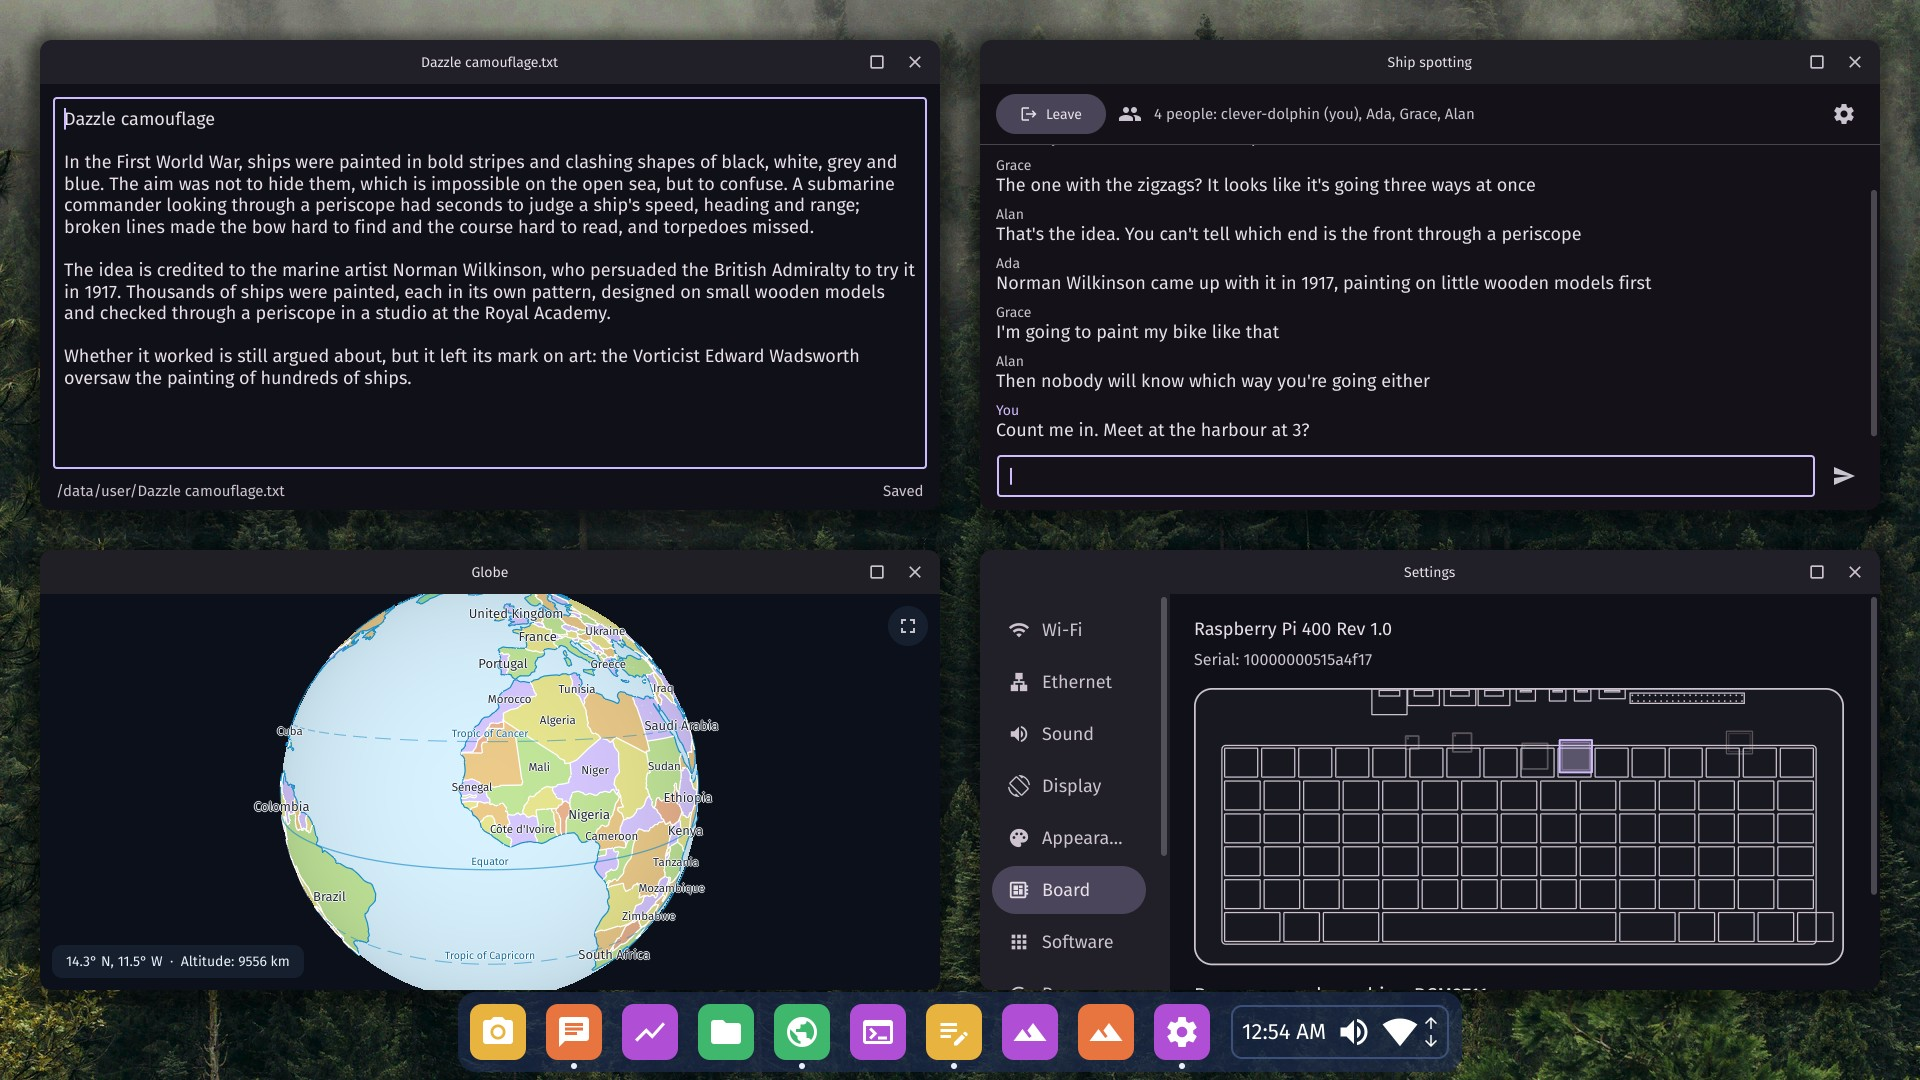
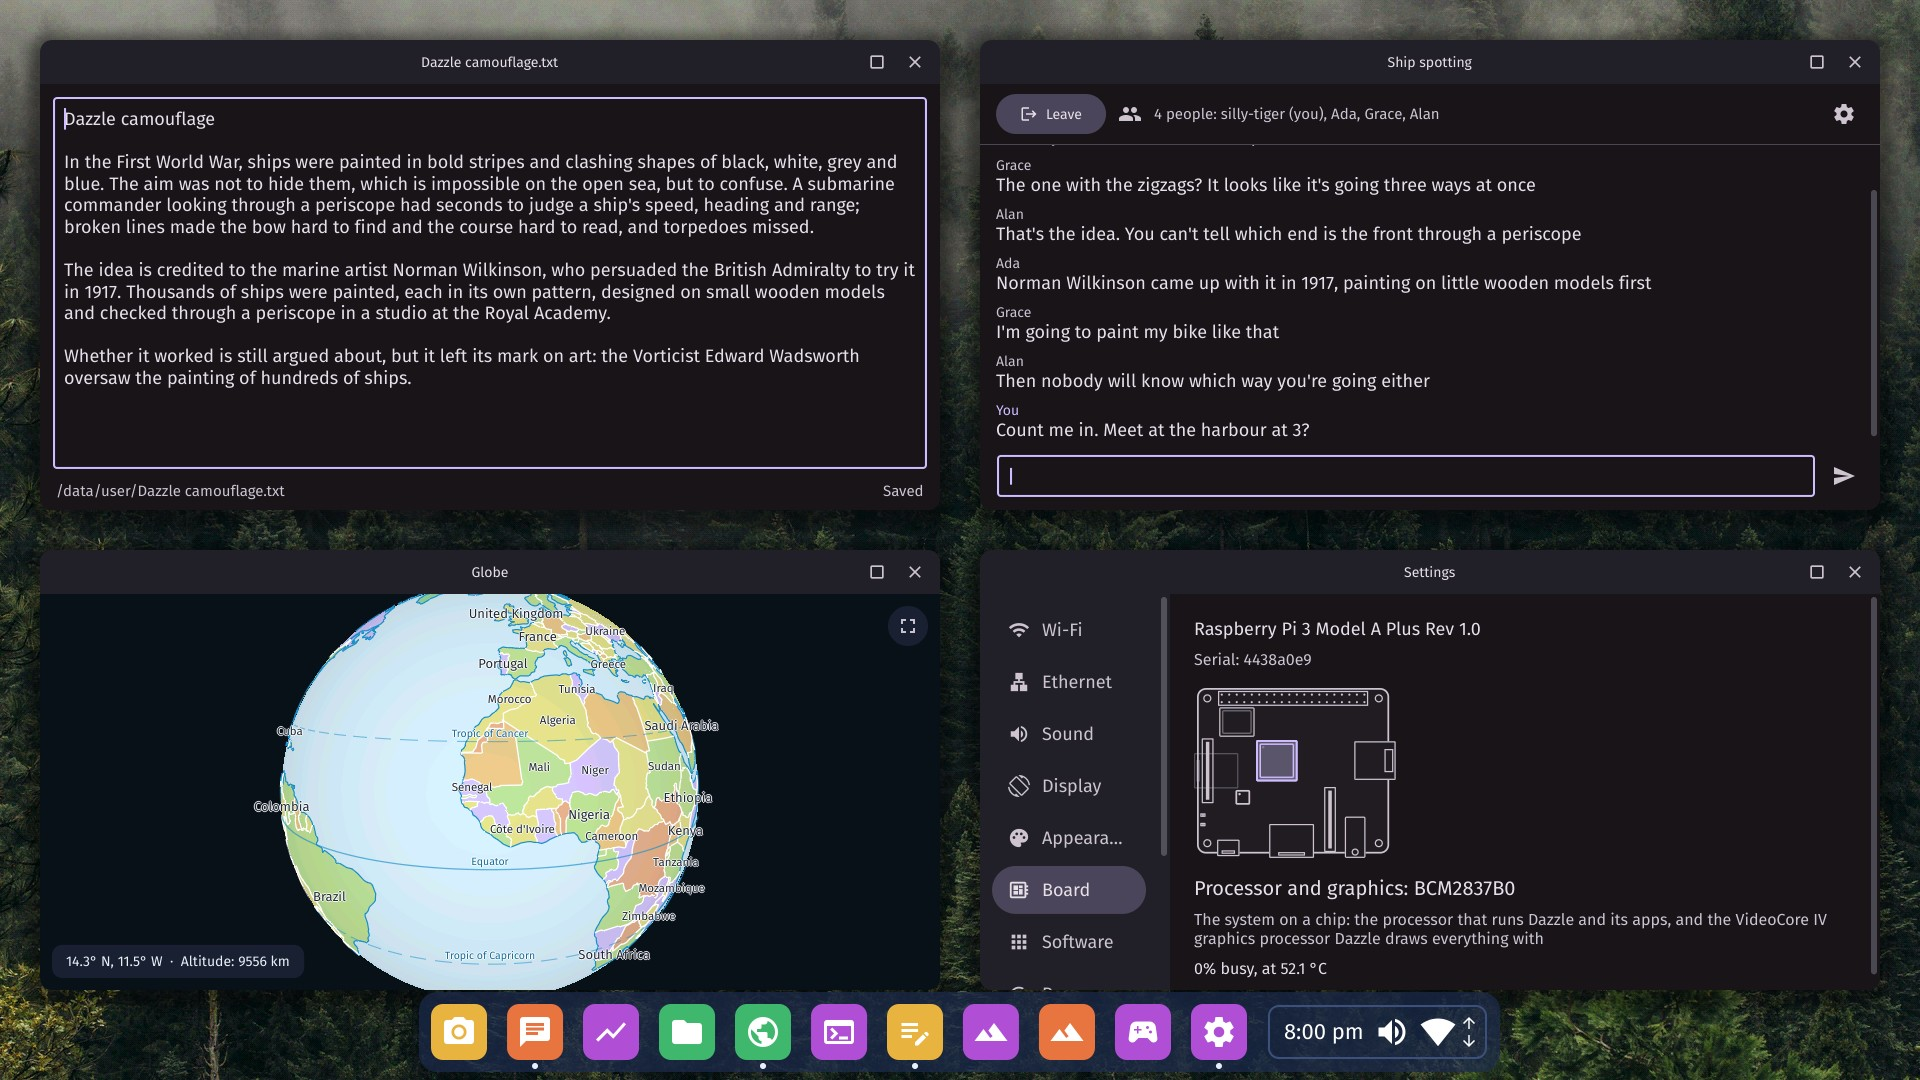
The screenshot from a Pi 3 on a monitor, typed slower
Retaken on a Raspberry Pi 3 A+ with an HDMI monitor (its touchscreen
beside it as keyboard and touchpad). The script types in smaller pieces
a little apart: a slower computer's apps dropped keys typed faster.

diff --git a/scripts/screenshot.py b/scripts/screenshot.py
@@ -245,12 +245,15 @@ class Remote:
             self.get("/key", key=code, pressed=1 if pressed else 0)
 
     def type(self, text):
-        # In pieces; each is typed whole or not at all (503: the keys
-        # typed before are still going in), so try again.
-        for i in range(0, len(text), 40):
+        # In pieces, a little apart (a slower computer's apps drop keys
+        # that come faster than they draw); each is typed whole or not at
+        # all (503: the keys typed before are still going in), so try
+        # again.
+        for i in range(0, len(text), 8):
+            time.sleep(0.15)
             for _ in range(100):
                 try:
-                    self.get("/type", text=text[i:i + 40])
+                    self.get("/type", text=text[i:i + 8])
                     break
                 except urllib.error.HTTPError as e:
                     if e.code != 503:
